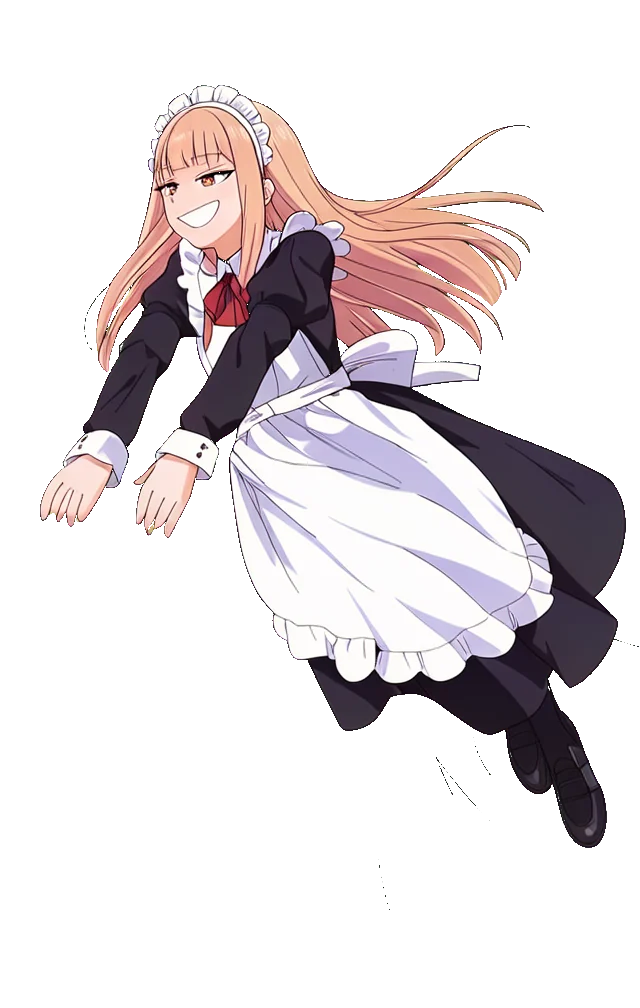
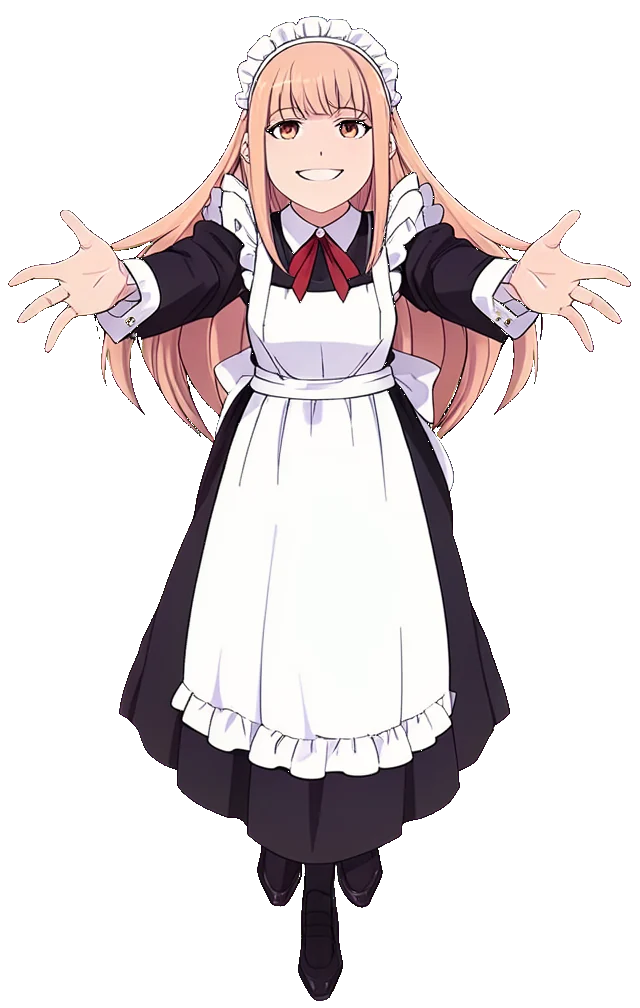
Fire Drill: Uptima levitates straight at the camera on her way down
The fly-in sprite leaned left, so the glide read as moving left (Ladi). Redrawn head-on and
symmetrical (Sogni FLUX 3 Image Klein, Unlimited plan, seed in tools/drill_fly_art.py).
Also: a tap before her flight down starts no longer cancels the flight back up (and with it
the end of the cutscene).

Claude-Session: https://claude.ai/code/session_01JTmPY8jQcN8YhES1hHVPkv

diff --git a/game/js/mode-drill.js b/game/js/mode-drill.js
@@ -54,7 +54,7 @@
         <button class="dr-cut-box" id="dr-cut-next" data-vo="${esc('uptima|' + text)}"><b>Uptima</b><span>${esc(text)}</span><i aria-hidden="true">▼</i></button></div>`);
       const rm = b.querySelector('.rm'), fig = b.querySelector('.rm-up .up-fig');
       // She glides down from her cloud to the desk as the scene opens, and floats back up when it closes.
-      if (first) setTimeout(() => RM().flyIn(rm), 250);
+      const tIn = first ? setTimeout(() => RM().flyIn(rm), 250) : 0;
       if (fig) fig.classList.add('talking');
       // Fuss lines only on lines that shout, and never two beats running.
       const sq = b.querySelector('.rm-sq');
@@ -66,7 +66,7 @@
       const t2 = setTimeout(() => fig && fig.classList.remove('talking'), talkMs);
       const next = b.querySelector('#dr-cut-next');
       next.onclick = () => {
-        clearTimeout(t1); clearTimeout(t2); i++;
+        clearTimeout(t1); clearTimeout(t2); clearTimeout(tIn); i++;   // a quick tap can beat her flight down
         if (i < beats.length) return show();
         RM().listen(false);
         if (calm) return done();

diff --git a/game/tools/drill_fly_art.py b/game/tools/drill_fly_art.py
@@ -15,9 +15,12 @@ KEEP = ('The same anime girl as the first image: black and white long maid dress
         'white frilled headband, very long straight peach-blonde hair, same face, same line art and flat anime coloring, '
         'whole body visible from head to shoes, on the same flat pure green background, nothing else in the frame.')
 FRAMES = {
-    'in': 'She is flying through the air toward the camera, body tilted forward and slightly foreshortened, arms stretched '
-          'out in front of her, a happy smug grin, her long hair and skirt streaming backward behind her from the wind, '
-          'feet trailing behind, a few small motion lines. ',
+    # Head-on, so the glide down reads as coming at you, not off to the left (Ladi, Nov 17: "levitating forward").
+    'in': 'Symmetrical front view, perfectly head-on: she is flying straight toward the camera, centered in the frame, not '
+          'turned or tilted to either side. Her body leans straight forward toward the viewer with strong forward '
+          'foreshortening, both arms reaching straight out at the viewer, hands open, a happy smug grin, her long hair and '
+          'skirt streaming straight back behind her on both sides evenly, legs trailing straight behind her and partly '
+          'hidden by the skirt. ',
     'out': 'She is flying backward away from the camera while still facing the camera, her body leaning back as if pulled '
            'away, arms swept forward toward the viewer, a lazy smug smile, her long hair and skirt blown forward toward the '
            'camera by the wind, feet leading away, a few small motion lines. ',
@@ -29,7 +32,7 @@ def render(work):
     g = Image.new('RGBA', (W, H), (0, 255, 0, 255)); g.alpha_composite(im.resize((302, 976), Image.LANCZOS), (169, 16))
     ref = os.path.join(work, 'ref.png'); g.convert('RGB').save(ref)
     for n, p in FRAMES.items():
-        subprocess.run(['sogni-agent-claude-code', '--billing-mode', 'subscription', '--json', '-m', 'flux3_image_klein_sd_int8_convrot',
+        subprocess.run(['sogni-agent-claude-code'] + (['--seed', '16838'] if n == 'in' else []) + ['--billing-mode', 'subscription', '--json', '-m', 'flux3_image_klein_sd_int8_convrot',
                         '-c', ref, '-w', str(W), '-h', str(H), '-o', os.path.join(work, n + '.png'), p + KEEP],
                        env=dict(os.environ, NODE_USE_ENV_PROXY='1'), stdout=subprocess.DEVNULL)
 

diff --git a/game/CREDITS.md b/game/CREDITS.md
@@ -39,7 +39,7 @@ Everything here was first made for or gathered by the first game, [Isekai'd Into
 | Uptima's Fire Drill poses (`assets/img/drill/uptima-*.webp`): smug, lazy, caught, derpy, entitled, applauding, hiding, sulking, bluffing and snack, with blink and talk frames | Drawn by Ladi on 2026-11-16 as character sheets with Sogni image edits of Uptima's persona sheet, from the prompts in project files `game-modes/multiplayer-real/storyboard/uptima-expression-prompts.md`; each body cut out with a script, and the blink and talk faces edited with Google's Gemini image model (gemini-3-pro-image-preview) through the Gemini API on Ladi's account, then converted to WebP | Generated for this game; used under Sogni's terms and the [Gemini API Additional Terms of Service](https://ai.google.dev/gemini-api/terms) | Uptima on the room's counter and in the Fire Drill's cutscenes (`js/drill-room.js`, `js/mode-drill.js`) |
 | Uptima lazing on a cloud (`assets/img/drill/uptima-cloud.webp`, `uptima-cloud-blink.webp`) | Generated for this game with Google's Gemini image model (gemini-3-pro-image-preview) through the Gemini API on Ladi's account on 2026-11-16, from Uptima's persona sheet; the blink frame is a Gemini edit of the first, both keyed off a green background and converted to WebP | Used under the [Gemini API Additional Terms of Service](https://ai.google.dev/gemini-api/terms) | Uptima's idle spot at the back of the Fire Drill's room (`js/drill-room.js`) |
 | Uptima eating her cookie on the cloud (`assets/img/drill/uptima-cloud-bite.webp`, `uptima-cloud-chew.webp`, `uptima-cloud-smug.webp`) | Generated for this game with [Sogni](https://www.sogni.ai) (FLUX 3 Image Klein, `flux3_image_klein_sd_int8_convrot`, on Ladi's Sogni Unlimited plan) on 2026-11-17 as image edits of `uptima-cloud.webp` above, from the prompts in `tools/drill_cloud_eat.py`; keyed off green and only her head and cookie hand feathered back into the base pose, converted to WebP | Generated for this game; used under Sogni's terms for generated output, from a base image used under the [Gemini API Additional Terms of Service](https://ai.google.dev/gemini-api/terms) | Uptima's idle spot at the back of the Fire Drill's room (`js/drill-room.js`): she bites, chews and looks smug in a loop |
-| Uptima flying between her cloud and the desk (`assets/img/drill/uptima-fly-in.webp`, `uptima-fly-out.webp`) | Generated for this game with [Sogni](https://www.sogni.ai) (FLUX 3 Image Klein, `flux3_image_klein_sd_int8_convrot`, on Ladi's Sogni Unlimited plan) on 2026-11-17 as image edits of `assets/img/drill/uptima-smug.webp`, from the prompts in `tools/drill_fly_art.py`; keyed off green and converted to WebP | Generated for this game; used under Sogni's terms for generated output, from a base pose drawn by Ladi (credited above) | The Fire Drill's room (`js/drill-room.js`): she flies at the camera on her way down to the desk, and backs away still facing it on her way up |
+| Uptima flying between her cloud and the desk (`assets/img/drill/uptima-fly-in.webp`, `uptima-fly-out.webp`) | Generated for this game with [Sogni](https://www.sogni.ai) (FLUX 3 Image Klein, `flux3_image_klein_sd_int8_convrot`, on Ladi's Sogni Unlimited plan) on 2026-11-17 as image edits of `assets/img/drill/uptima-smug.webp`, from the prompts in `tools/drill_fly_art.py`; keyed off green and converted to WebP | Generated for this game; used under Sogni's terms for generated output, from a base pose drawn by Ladi (credited above) | The Fire Drill's room (`js/drill-room.js`): she levitates straight at the camera on her way down to the desk, and backs away still facing it on her way up |
 | The Fire Drill room's living clips (`assets/video/drill/idle-a.mp4` to `idle-h.mp4`, `idle-false-alarm.mp4`, `alarm.mp4`, `clear.mp4`, `slump.mp4`, `intro.mp4`, `listen.mp4`): the leads idling, answering the alarm, relaxing when a drill is contained, slumping when it isn't, walking in to open a night, and turning toward Uptima while she talks | Animated by Ladi on 2026-11-16 with MiniMax H3 on [Sogni](https://www.sogni.ai), starting from the war room plate above, from the prompts in project files `game-modes/multiplayer-real/storyboard/sogni-room-clips.md` (the first of two takes, both takes for idle; the intro and the listen take (the second of two, cut before its last-keyframe jump and colour-matched to the plate) from Ladi's own keyframe setups on 2026-11-17; idle-c to idle-h and idle-false-alarm, more idle takes Ladi made on 2026-11-17, with two takes in a different room left out; idle-g, idle-h and idle-false-alarm colour-matched to idle-a frame by frame); audio removed and re-encoded with ffmpeg. The all-clear clip (`clear.mp4`) re-rendered on 2026-11-17 with MiniMax H3 (first and last frame, `minimax-h3-flf2v`) on [Sogni](https://www.sogni.ai), from the clean room plate to a warm copy of it with the red lamps put out and the light graded gold in Python (the take from 2026-11-16 drew Dutch without his right ear, and the next one kept the red lamp lit), from the all-clear prompt in `sogni-room-clips.md` with the camera held still, audio removed and re-encoded with ffmpeg. | Generated for this game; used under Sogni's terms for generated output | The Fire Drill's room, under the plate's overlays (`js/drill-room.js`) |
 | The mattes that keep the leads in front of Uptima (`assets/img/drill/room-leads-matte.png`) | Made for this game on 2026-11-16 from the war room plate with [rembg](https://github.com/danielgatis/rembg) (MIT), combining its isnet-anime ([anime-segmentation](https://github.com/SkyTNT/anime-segmentation), Apache 2.0) and u2net_human_seg ([U-2-Net](https://github.com/xuebinqin/U-2-Net), Apache 2.0) masks, cleaned up with SciPy | The mask is this game's own output | The Fire Drill's room (`js/drill-room.js`) |
 | The Fire Drill's night map (`assets/img/drill/map-*.webp`): the war room's chalkboard, wide and tall, and the props pinned to it (the incident card, the alarm notice, the brass tack, the wax seal), the path emblems (gate, mail rack, stream, alarm bell, crier's horn, signpost) and the chalk marks (arrow, ring, tick, cross) | Generated for this game with Google's Gemini image model (gemini-3-pro-image-preview) through the Gemini API on Ladi's account on 2026-11-17, with the empty war room plate above as the style reference, from the prompts in `tools/drill_map_art.py`; props and emblems keyed off a green background, chalk keyed off black, cut, resized and converted to WebP with `tools/drill_map_pack.py` | Used under the [Gemini API Additional Terms of Service](https://ai.google.dev/gemini-api/terms) | The Fire Drill's night map (`js/mode-drill.js`) |
